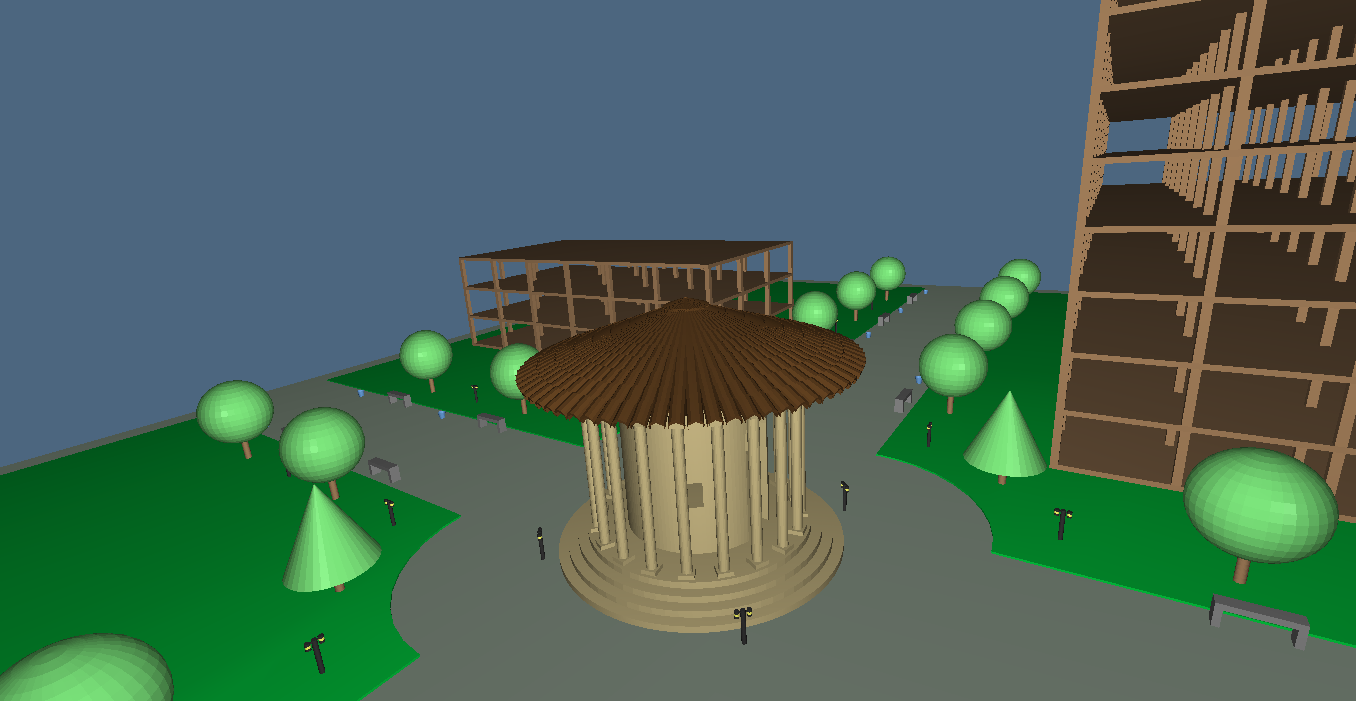
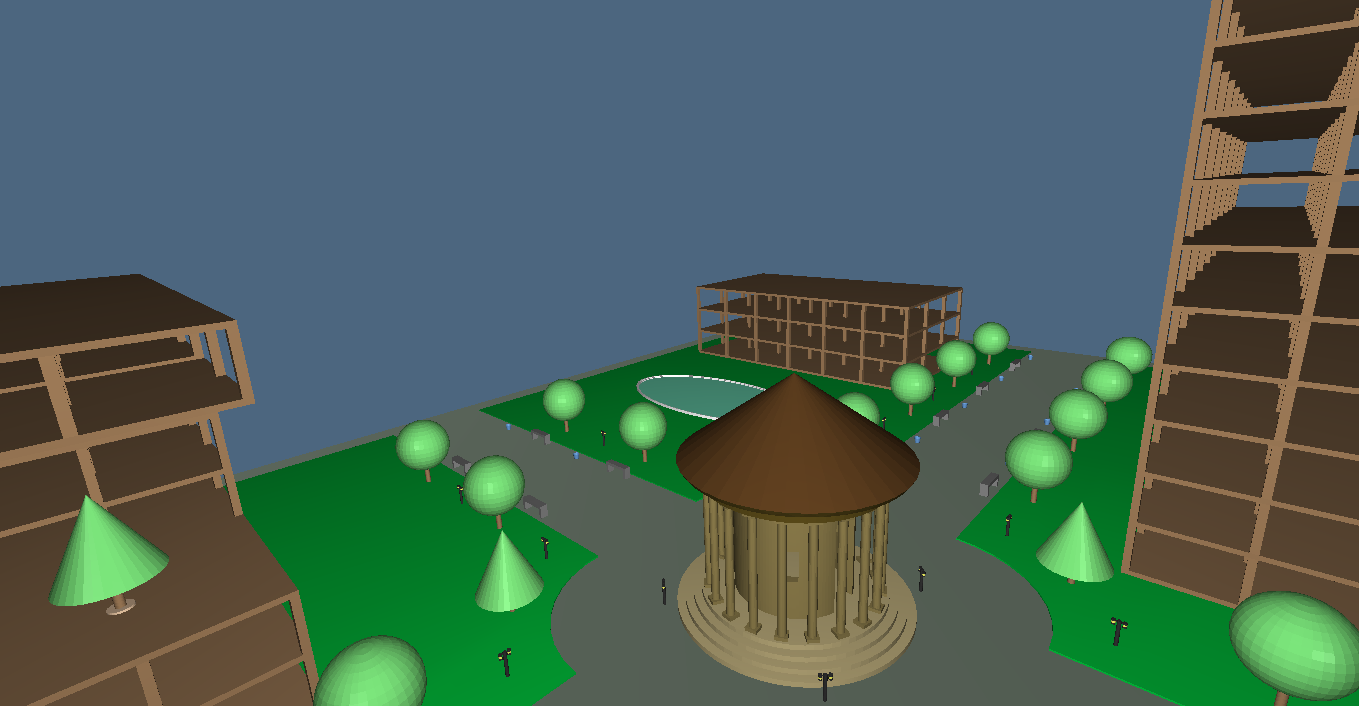
more area plan

diff --git a/2014-04-12/index.html b/2014-04-12/index.html
@@ -33,17 +33,20 @@
 	situati fari, cestini e panchine, nei 4 giardini adiacenti il tempio
 	ci sono 4 strutture di varie dimensioni con degli alberi a cono e sferici,
 	vi è inoltre un albero all'interno di una struttura (riprendendo un stile
-	di <a href="./images/fig12.png">design moderno</a>).
+	di <a href="./images/fig12.png">design moderno</a>) ed un <a href="./images/fig02.png">bosco</a> poco lontano.
+	Sono inoltre state inserite due piscine, una ovale vicina al tempio ed
+	una rettangolare, più grande, al limite dell'area.
 	
 	Per l'arredo urbano ho fatto riferimento a delle immagini di design moderno,
 	di seguito qualche esempio:
 	- <a href="./images/fig11.png">panchine</a>
 	- <a href="./images/fig10.png">fari</a>
 	
-	Se non si volesse ottimizzare il tempo di compilazione si potrebbe commentare l'istanza
-	"tegolato" a favore di quella già commentata nel codice, in questo modo si
-	può passare dalla rappresentazione del tetto originale del 120 a.C. (in marmo come nelle Tholos greche)
-	alla rappresentazione ai giorni nostri (legno e tegole).
+	Se non si volesse ottimizzare il tempo di compilazione si potrebbe commentare
+	l'istanza "tegolato" a favore di quella già commentata nel codice, in questo
+	modo si può passare dalla rappresentazione del tetto originale del 120 a.C.
+	(in marmo come nelle Tholos greche) alla rappresentazione ai giorni nostri
+	(legno e tegole).
 	</PRE>
 	<BR></DIR>
 	&nbsp&nbspImages:<DIR>

diff --git a/2014-04-12/python/exercise4.py b/2014-04-12/python/exercise4.py
@@ -52,22 +52,12 @@ base_tempio = CYLINDER([7,0.3])(360)
 #la base degli edifici, come punto di riferimento
 edificio_1 = T([1,2,3])([14,15,0.1])(INSR(PROD)([QUOTE([5.4*(5+1)-5]),QUOTE([5.4*(8+1)-5]),QUOTE([0.1])]))
 edificio_2 = T([1,2,3])([-44,40,0.1])(INSR(PROD)([QUOTE([5.4*(6+1)-5]),QUOTE([5.4*(3+1)-5]),QUOTE([0.1])]))
-edificio_3 = T([1,2,3])([15,-55,0.1])(INSR(PROD)([QUOTE([5.4*(3+1)-5]),QUOTE([5.4*(6+1)-5]),QUOTE([0.1])]))
+edificio_3 = T([1,2,3])([14.5,-55,0.1])(INSR(PROD)([QUOTE([5.4*(14+1)-5]),QUOTE([5.4*(6+1)-5]),QUOTE([0.1])]))
 edificio_4 = T([1,2,3])([-45,-55,0.1])(INSR(PROD)([QUOTE([5.4*(6+1)-5]),QUOTE([5.4*(6+1)-5]),QUOTE([0.1])]))
-edifici = STRUCT([edificio_1,edificio_2,edificio_3,edificio_4])
-#pavimentazione esterna
-pavimento = T([1,2,3])([-50,-70,-0.1])(INSR(PROD)([QUOTE([100]),QUOTE([140]),QUOTE([0.1])]))#il prato attorno al tempio
-x1 = QUOTE([42.5])
-y1 = QUOTE([62.5])
-rect1 = INSR(PROD)([x1,y1,QUOTE([0.1])])
-cyrc1 = CYLINDER([7.5,0.1])(36)
-pratoBase = (DIFFERENCE([rect1,cyrc1]))
-prato_1 = T([1,2])([5,5])(pratoBase)
-prato_2 = S(2)(-1)(prato_1)
-prato_3 = S(1)(-1)(prato_1)
-prato_4 = S(1)(-1)(prato_2)
-prato_finale = STRUCT([prato_1,prato_2,prato_3,prato_4])
-scenario = STRUCT([pavimento,prato_finale,base_tempio,edifici])
+edificio_5 = T([1,2,3])([125,30,0.1])(INSR(PROD)([QUOTE([5.4*(3+1)-5]),QUOTE([5.4*(3+1)-5]),QUOTE([0.1])]))
+edifici = STRUCT([edificio_1,edificio_2,edificio_3,edificio_4,edificio_5])
+#scenario 2D
+scenario = COLOR([0.596,0.463,0.329])(STRUCT([floor,pratone,base_tempio,edifici]))
 
 #gli elementi precedenti sono solo una base presa dall'esercizio 3
 #per visualizzare in dettagli l'arredo urbano, successivamente
@@ -110,7 +100,7 @@ cestino_sommita = T(3)(0.5)(CIRCUMFERENCE(0.3)(36))
 cestino_pieno = JOIN([cestino_base,cestino_sommita])
 cestino = DIFFERENCE([cestino_pieno,T(3)(0.01)(cestino_pieno)])
 cestino = COLOR([0.388,0.592,0.816])(cestino)
-#piscina
+#piscina ovale
 bordo1a = CYLINDER([6,0.3])(48)
 bordo1b = CYLINDER([5.9,0.3])(48)
 bordo1 = DIFFERENCE([bordo1a,bordo1b])
@@ -120,7 +110,26 @@ bordo2 = DIFFERENCE([bordo2a,bordo2b])
 acqua = CYLINDER([5.8,0.1])(48)
 acqua = COLOR([0.498,1,0.831])(acqua)
 piscina_tonda = STRUCT([bordo1,bordo2,acqua])
-piscina = T([1,2,3])([-28,25,0.1])(S(1)(2)(piscina_tonda))
+piscina_ovale = T([1,2,3])([-28,25,0.1])(S(1)(2)(piscina_tonda))
+#piscina rettangolare
+bordo3a = CUBOID([32,55,0.3])
+bordo3b = T([1,2])([0.5,0.5])(CUBOID([31,54,0.3]))
+bordo3 = DIFFERENCE([bordo3a,bordo3b])
+bordo4a = CUBOID([31,54,0.2])
+bordo4b = T([1,2])([0.5,0.5])(CUBOID([30,53,0.2]))
+bordo4 = DIFFERENCE([bordo4a,bordo4b])
+acqua = T([1,2])([1,1])(CUBOID([30,53,0.1]))
+acqua = COLOR([0.498,1,0.831])(acqua)
+piscina_rettangolare = STRUCT([bordo3,T([1,2])([0.5,0.5])(bordo4),acqua])
+piscina_rettangolare = T([1,2,3])([118,-65,0.1])(piscina_rettangolare)
+
+#popola un rettangolo(giardino) con alberi a cono e sferici
+def popola(n):
+    oggetti = T([1,2])([21.25,31.25])(cestino)
+    for i in range(n):
+        oggetti = STRUCT([oggetti,T([1,2])([random.random()*42.5,random.random()*62.5])(tree_ball)])
+        oggetti = STRUCT([oggetti,T([1,2])([random.random()*42.5,random.random()*62.5])(tree_cone)])
+    return T(3)(0.1)(oggetti)
 
 #posizionamento arredi
 faro_tempio = T([1,2])([5.5,5.5])(R([1,2])(-PI/4)(faro))
@@ -152,8 +161,12 @@ albero1 = T([1,2])([12,12])(tree_cone)
 albero2 = T([1,2])([-12,12])(tree_cone)
 albero3 = T([1,2])([12,-12])(tree_cone)
 albero4 = T([1,2])([-12,-12])(tree_cone)
-arredo_urbano = STRUCT([piscina,arredo_urbano_strada1,arredo_urbano_strada2,arredo_urbano_strada3,arredo_urbano_strada4,albero1,albero2,albero3,albero4])
+bosco = T([1,2])([57.5,5])(popola(150))
+arredo_urbano1 = STRUCT([arredo_urbano_strada1,arredo_urbano_strada2,arredo_urbano_strada3,arredo_urbano_strada4,albero1,albero2,albero3,albero4])
+arredo_urbano2 = T(1)(105)(arredo_urbano1)
+arredo_urbano3 = T(1)(52.5)(STRUCT([arredo_urbano_strada3]))
+arredo_urbano = STRUCT([arredo_urbano1,arredo_urbano2,arredo_urbano3,piscina_ovale,piscina_rettangolare,bosco])
 
 #selezionare solo una delle due VIEW seguenti
-VIEW(STRUCT([scenario,arredo_urbano]))
-#VIEW(STRUCT([floor,pratone,arredo_urbano,tempio,neighbouring_buildings]))
+#VIEW(STRUCT([scenario,arredo_urbano]))
+VIEW(STRUCT([floor,pratone,arredo_urbano,tempio,neighbouring_buildings]))

diff --git a/2014-04-12/python/exercise3.py b/2014-04-12/python/exercise3.py
@@ -9,7 +9,7 @@ tempio = STRUCT([horizontal_partitions,vertical_enclosures])
 #____________________________________________________________________________
 
 #pavimentazione esterna
-floor = T([1,2,3])([-50,-70,-0.1])(INSR(PROD)([QUOTE([100]),QUOTE([140]),QUOTE([0.1])]))
+floor = T([1,2,3])([-50,-70,-0.1])(INSR(PROD)([QUOTE([205]),QUOTE([140]),QUOTE([0.1])]))
 
 #il prato attorno al tempio
 x = QUOTE([42.5])
@@ -21,8 +21,17 @@ prato1 = T([1,2])([5,5])(prato_base)
 prato2 = S(2)(-1)(prato1)
 prato3 = S(1)(-1)(prato1)
 prato4 = S(1)(-1)(prato2)
+pratone1 = STRUCT([prato1,prato2,prato3,prato4])
+pratoA = T([1,2])([5,5])(INSR(PROD)([x,y,QUOTE([0.1])]))
+pratoB = S(2)(-1)(pratoA)
+pratoC = S(1)(-1)(pratoA)
+pratoD = S(1)(-1)(pratoB)
+pratone2 = STRUCT([pratoA,pratoB,pratoC,pratoD])
+pratone2 = T(1)(105)(pratone2)
+connessione = INSR(PROD)([QUOTE([10]),QUOTE([45]),QUOTE([0.1])])
+connessione = T([1,2])([47.5,-67.5])(connessione)
 
-pratone = STRUCT([prato1,prato2,prato3,prato4])
+pratone = STRUCT([pratone1,pratone2,connessione])
 
 #gli edifici vicini
 #edifica crea un edificio con x stanze per y stanze e con z piani
@@ -40,11 +49,19 @@ def edifica(x,y,z):
 
 edificio1 = T([1,2])([14,15])(edifica(5,8,11))
 edificio2 = T([1,2])([-44,40])(edifica(6,3,3))
-edificio3 = T([1,2])([15,-55])(edifica(3,6,5))
+edificio3 = T([1,2])([14.5,-55])(edifica(14,6,4))
 edificio4a = T([1,2])([-45,-55])(edifica(6,6,2))
 edificio4b = T([1,2,3])([-45,-55,6.3])(edifica(6,4,3))
 edificio4c = T([1,2,3])([-45,-55,6.3])(edifica(4,6,3))
 edificio4d = T([1,2,3])([-45,-55,16])(edifica(6,6,1))
+edificio5a = edifica(3,3,10)
+edificio5b1 = T([1,2,3])([0,0,3.3*10])(edifica(1,1,10))
+edificio5b2 = T([1,2,3])([0,10.8,3.3*10])(edifica(1,1,10))
+edificio5b3 = T([1,2,3])([10.8,0,3.3*10])(edifica(1,1,10))
+edificio5b4 = T([1,2,3])([10.8,10.8,3.3*10])(edifica(1,1,10))
+edificio5c = T([1,2,3])([0,0,3.3*20])(edifica(3,3,3))
+edificio5 = STRUCT([edificio5a,edificio5b1,edificio5b2,edificio5b3,edificio5b4,edificio5c])
+edificio5 = T([1,2])([125,30])(edificio5)
 #un albero nell'edificio 4
 tronco = CYLINDER([0.2,1.5])(36)
 tronco = COLOR([0.596,0.463,0.329])(tronco)
@@ -53,8 +70,12 @@ cono = COLOR([0.467,0.867,0.467])(cono)
 base_albero = CYLINDER([0.5,0.1])(36)
 base_albero = COLOR([0.896,0.763,0.629])(base_albero)
 albero_edificio4 = T([1,2,3])([-17,-28,7])(STRUCT([base_albero,T(3)(0.1)(tronco),T(3)(1.6)(cono)]))
+#muretto d'entrata all'edificio 3
+murettoSx = CUBOID([0.5,17,3])
+murettoDx = T(1)(10.5)(murettoSx)
+muretto = T([1,2])([47,-22.25])(STRUCT([murettoSx,murettoDx]))
 
-neighbouring_buildings = STRUCT([edificio1,edificio2,edificio3,edificio4a,edificio4b,edificio4c,edificio4d,albero_edificio4])
+neighbouring_buildings = STRUCT([edificio1,edificio2,edificio3,edificio4a,edificio4b,edificio4c,edificio4d,albero_edificio4,edificio5,muretto])
 
 #colore
 floor = COLOR([0.8,0.9,0.8])(floor)

diff --git a/2014-04-12/python/exercise2.py b/2014-04-12/python/exercise2.py
@@ -2,6 +2,8 @@
 
 from pyplasm import *
 
+from exercise1 import *
+
 #ruota un oggetto a 360°
 def copertura(l):
 	out = l
@@ -45,6 +47,6 @@ tegolato = JOIN([tetto3top,MK([0,0,14.2])])
 naos = COLOR([0.561,0.498,0.302])(naos)
 tegolato = COLOR([0.396,0.263,0.129])(tegolato)
 
-vertical_enclosures = STRUCT([naos,tegolato])
+vertical_enclosures = STRUCT([naos,tegolato,SKELETON(1)(horizontal_partitions)])
 
 #VIEW(vertical_enclosures)
